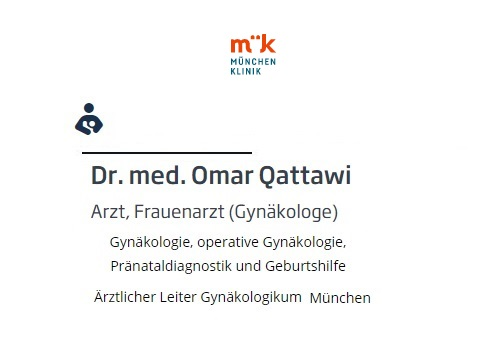
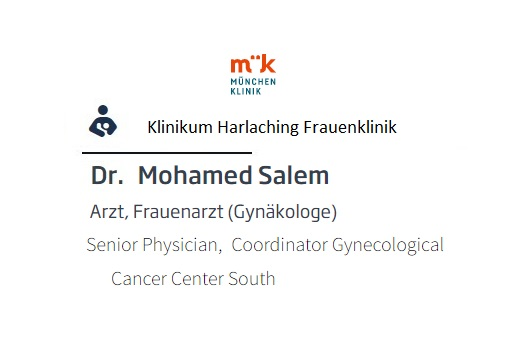
fix

diff --git a/data/db-other.js b/data/db-other.js
@@ -395,7 +395,7 @@ const other = [
         address1: 'Sanatoriumsplatz 2, 81545 München',
         phone: '089/6210-2500',
         email:'',
-        description: 'Dr. Mohamed Salem, Obstetrician-Gynecologist (OBGYN) , Klinikum Harlaching Frauenklinik.',
+        description: 'Dr. Mohamed Salem, Obstetrician-Gynecologist (OBGYN) , Klinikum Harlaching Frauenklinik. Senior Physician, Coordinator Gynecological Cancer Center South.',
         more: '',
         thingstodo: [
             'Obstetrician & gynecologist',            
